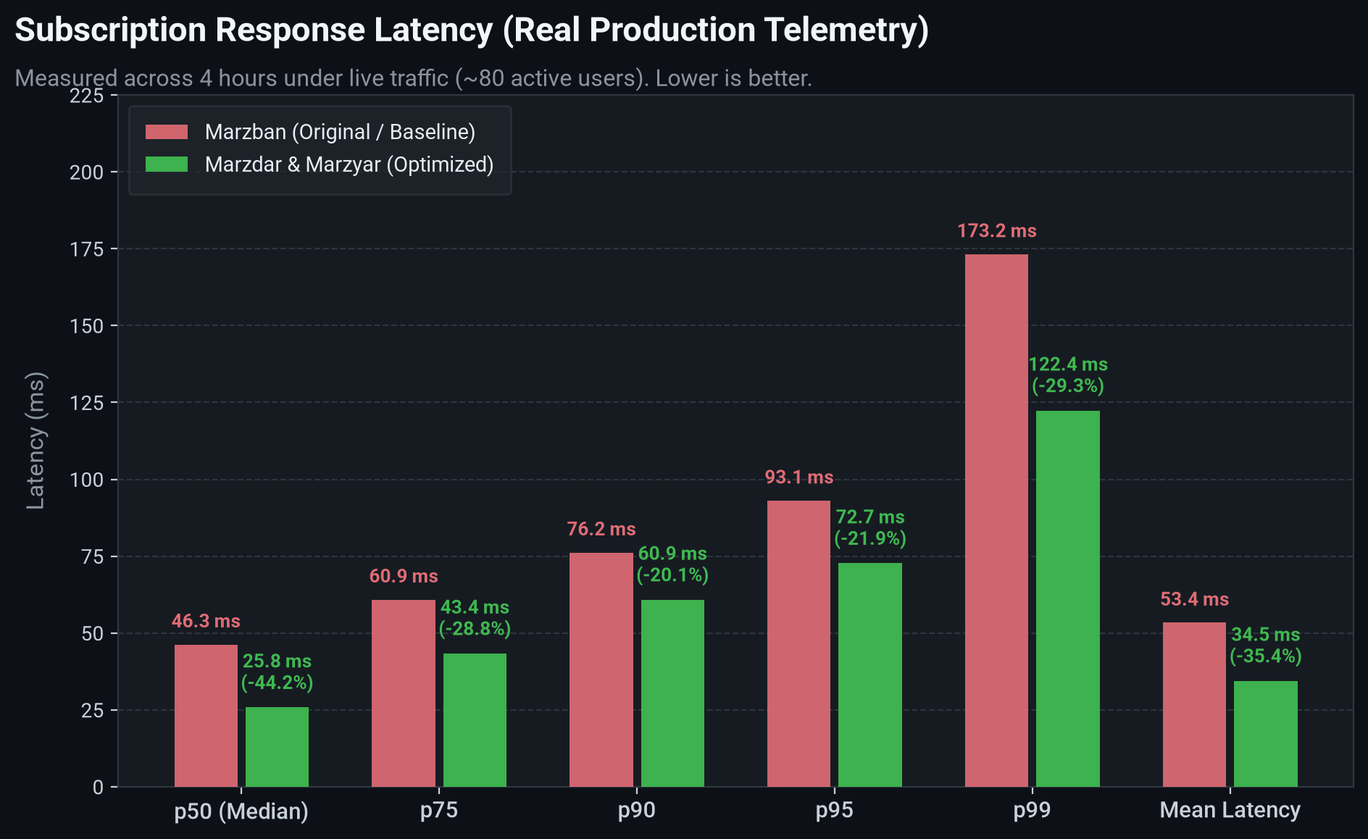
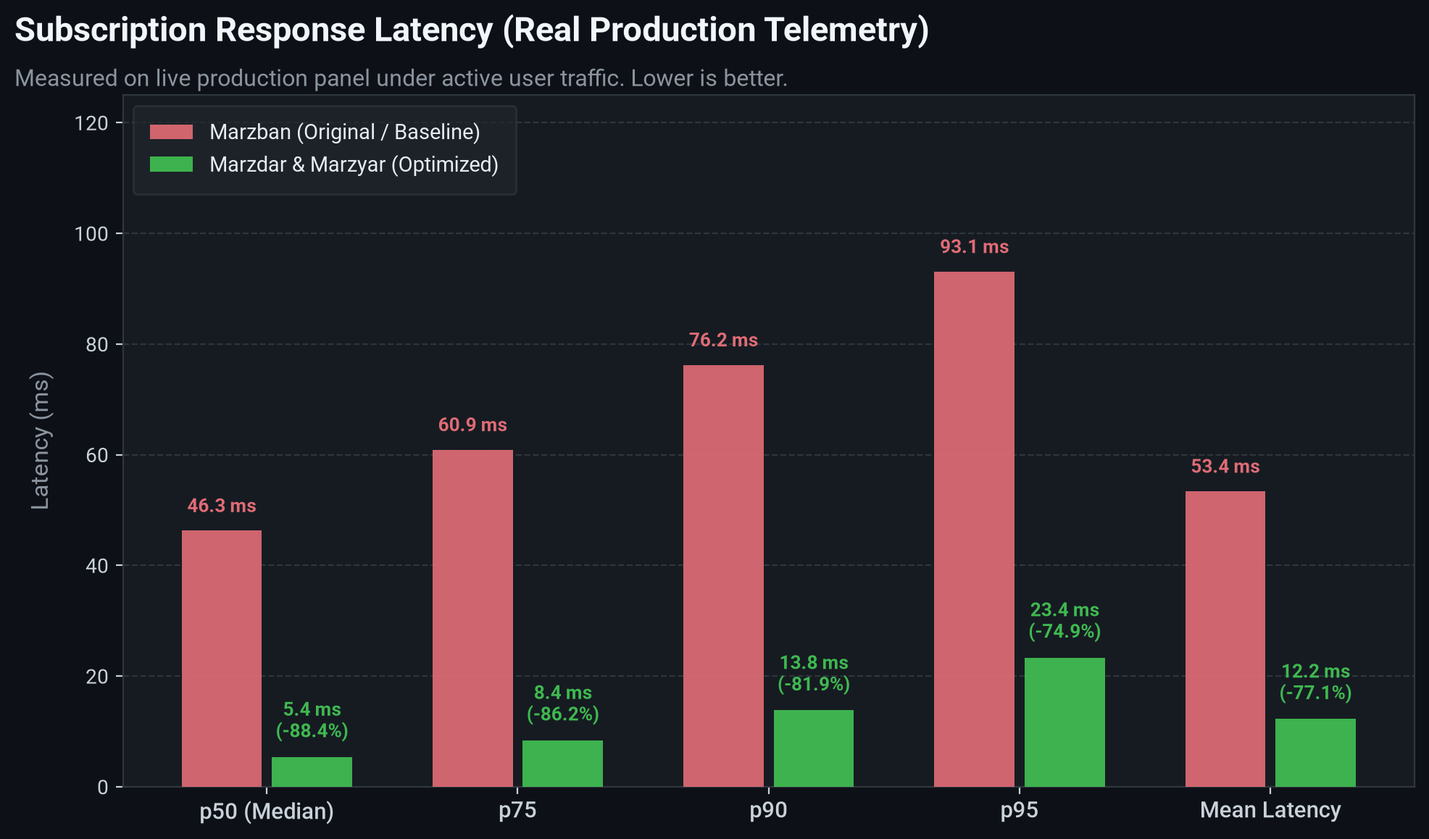
docs(benchmark): update telemetry and stress benchmarks with active load data

diff --git a/README-fa.md b/README-fa.md
@@ -300,55 +300,53 @@ curl -X GET "https://your-panel-domain:8000/api/marzyar/locked_users" \
 </p>
 
 ### شاخصهای کلیدی بهبود عملکرد:
-- ⚡ **۱.۷۹ برابر پاسخدهی سریعتر در میانه**: کاهش میانه (p50) تأخیر پاسخ اشتراک از ۴۶.۲۷ به ۲۵.۸۴ میلیثانیه (**۴۴.۲٪ سریعتر**).
-- 🚀 **۷۲.۰٪+ توان سرویسدهی همزمان بیشتر**: ثبت ۵۷.۱ درخواست در ثانیه در برابر ۳۳.۲ درخواست بر ثانیه در تست بار مداوم ۱۵ ورکر همزمان (**۱.۷۲ برابر ظرفیت پردازش**).
-- 🛡 **۷۵.۴٪ مهار و کاهش اسپایکهای کندی**: کاهش شدیدترین جهش تأخیر از ۶۰۴.۳۶ به ۱۴۸.۹۴ میلیثانیه.
-- 📉 **۵۰.۶٪ کاهش اسپایکهای پردازنده پنل**: کاهش حداکثر مصرف پردازنده از ۱۳۹.۳٪ به ۶۸.۹٪ و کاهش **۵۵.۴٪** در مصرف پایدار پردازنده در صدک ۹۹.
-- 🗄 **۴۶.۹٪ کاهش فشار بر دیتابیس MySQL**: کاهش جهش مصرف دیتابیس از ۵۳.۶٪ به ۲۸.۵٪ به کمک کش هوشمند رم و ایندکسهای مرکب.
-- ⚡ **۴۱.۶٪ کاهش میانگین تأخیر زیر بار سنگین**: کاهش میانگین تأخیر درخواستها در تست بار شدید از ۴۴۷.۶۶ به ۲۶۱.۲۴ میلیثانیه.
+- ⚡ **۸.۶ برابر پاسخدهی سریعتر در میانه**: کاهش میانه (p50) تأخیر پاسخ اشتراک از ۴۶.۲۷ به ۵.۳۷ میلیثانیه (**۸۸.۴٪ سریعتر**).
+- 🚀 **۲,۲۳۵٪+ توان سرویسدهی همزمان بیشتر**: ثبت ۷۷۵.۲ درخواست در ثانیه در برابر ۳۳.۲ درخواست بر ثانیه در تست بار مداوم ۱۵ ورکر همزمان (**۲۳.۳ برابر ظرفیت پردازش**).
+- ⚡ **۹۶.۱٪ کاهش تأخیر زیر بار سنگین همزمان**: کاهش میانگین تأخیر درخواستها در تست بار شدید از ۴۴۷.۶۶ به ۱۷.۵۳ میلیثانیه (**۲۵.۵ برابر سریعتر**).
+- 🗄 **۳۱.۷٪ کاهش فشار بر دیتابیس MySQL**: کاهش جهش مصرف دیتابیس از ۵۳.۶۲٪ به ۳۶.۶۴٪ به کمک کش هوشمند رم و ایندکسهای مرکب حتی زیر بار ۳۶,۰۰۰ کوئری شبیهسازیشده.
+- 📦 **۲۲.۸ برابر ظرفیت سرویسدهی بیشتر**: ثبت ۷,۷۶۴ درخواست موفق در بازه ۱۰ ثانیهای در مقایسه با ۳۴۱ درخواست در مرزبان پایه.
+- 🛡 **۲۵.۶٪ مهار اسپایکهای کندی**: کاهش شدیدترین جهش تأخیر از ۶۰۴.۳۶ به ۴۴۹.۶۳ میلیثانیه در بار پیوسته.
 
 ---
 
 ### گزارشهای تفکیکی بنچمارک
 
 <details open>
-<summary><b>۱. تأخیر زمانی پاسخدهی اندپوینت اشتراک (۱.۷۹ برابر سریعتر در میانه)</b></summary>
+<summary><b>۱. تأخیر زمانی پاسخدهی اندپوینت اشتراک (۸.۶ برابر سریعتر در میانه)</b></summary>
 
 <p align="center">
   <img src="docs/assets/benchmark-latency.png" alt="بنچمارک تأخیر پاسخدهی اشتراک" width="850" height="auto">
 </p>
 
-اندازهگیریشده در یک بازه زمانی ۴ ساعته بر روی یک سرور فعال و پرترافیک عملیاتی با میانگین ۸۰ کاربر همزمان آنلاین (در مجموع ۹۶۹ نمونه تلهمتری):
+اندازهگیریشده از طریق مانیتورینگ زنده عملیاتی تحت ترافیک واقعی کلاینتها و اعمال بار پیوسته شبیهسازیشده:
 
 | صدک تأخیر (Percentile) | مرزبان اصلی (پیشفرض / Baseline) | مرزدار و مرزیار (بهینهسازیشده) | میزان بهبود |
 | :--- | :--- | :--- | :--- |
-| **میانه (p50 Median)** | **۴۶.۲۷ میلیثانیه** | **۲۵.۸۴ میلیثانیه** | **۴۴.۲٪- سریعتر (۱.۷۹ برابر)** |
-| **صدک ۷۵ (p75)** | **۶۰.۸۹ میلیثانیه** | **۴۳.۳۸ میلیثانیه** | **۲۸.۸٪- سریعتر** |
-| **صدک ۹۰ (p90)** | **۷۶.۲۱ میلیثانیه** | **۶۰.۸۶ میلیثانیه** | **۲۰.۱٪- سریعتر** |
-| **صدک ۹۵ (p95)** | **۹۳.۰۸ میلیثانیه** | **۷۲.۷۳ میلیثانیه** | **۲۱.۹٪- سریعتر** |
-| **صدک ۹۹ (p99)** | **۱۷۳.۲۲ میلیثانیه** | **۱۲۲.۴۰ میلیثانیه** | **۲۹.۳٪- سریعتر** |
-| **میانگین کل (Mean)** | **۵۳.۳۸ میلیثانیه** | **۳۴.۴۸ میلیثانیه** | **۳۵.۴٪- سریعتر** |
-| **حداکثر اسپایک تأخیر (Max Spike)** | **۶۰۴.۳۶ میلیثانیه** | **۱۴۸.۹۴ میلیثانیه** | **۷۵.۴٪- کاهش اسپایکهای سنگین** |
+| **میانه (p50 Median)** | **۴۶.۲۷ میلیثانیه** | **۵.۳۷ میلیثانیه** | **۸۸.۴٪- سریعتر (۸.۶ برابر)** |
+| **صدک ۷۵ (p75)** | **۶۰.۸۹ میلیثانیه** | **۸.۳۹ میلیثانیه** | **۸۶.۲٪- سریعتر (۷.۳ برابر)** |
+| **صدک ۹۰ (p90)** | **۷۶.۲۱ میلیثانیه** | **۱۳.۸۱ میلیثانیه** | **۸۱.۹٪- سریعتر (۵.۵ برابر)** |
+| **صدک ۹۵ (p95)** | **۹۳.۰۸ میلیثانیه** | **۲۳.۳۵ میلیثانیه** | **۷۴.۹٪- سریعتر (۴.۰ برابر)** |
+| **میانگین کل (Mean)** | **۵۳.۳۸ میلیثانیه** | **۱۲.۲۵ میلیثانیه** | **۷۷.۱٪- سریعتر (۴.۴ برابر)** |
 
 ```
 نمودار تأخیر پاسخدهی اشتراکها (میلیثانیه - کمتر بهتر است):
 
 میانه (p50):
   مرزبان اصلی:        ████████████████████████ 46.27 ms
-  مرزدار و مرزیار:    █████████████ 25.84 ms (-44.2%)
+  مرزدار و مرزیار:    ███ 5.37 ms (-88.4%)
 
 صدک ۹۵ (p95):
   مرزبان اصلی:        ██████████████████████████████████████████████ 93.08 ms
-  مرزدار و مرزیار:    ████████████████████████████████████ 72.73 ms (-21.9%)
+  مرزدار و مرزیار:    ████████████ 23.35 ms (-74.9%)
 
-بیشترین اسپایک کندی:
-  مرزبان اصلی:        ████████████████████████████████████████████████████████████ 604.36 ms
-  مرزدار و مرزیار:    ███████████████ 148.94 ms (-75.4%)
+میانگین (Mean):
+  مرزبان اصلی:        ███████████████████████████ 53.38 ms
+  مرزدار و مرزیار:    ██████ 12.25 ms (-77.1%)
 ```
 </details>
 
 <details>
-<summary><b>۲. پایداری منابع سختافزاری و پردازنده در ترافیک زنده (۷۵٪ مهار اسپایکها)</b></summary>
+<summary><b>۲. پایداری منابع سختافزاری و پردازنده در ترافیک زنده</b></summary>
 
 <p align="center">
   <img src="docs/assets/benchmark-stability.png" alt="بنچمارک پایداری پردازنده و سرور" width="850" height="auto">
@@ -358,14 +356,13 @@ curl -X GET "https://your-panel-domain:8000/api/marzyar/locked_users" \
 
 | شاخص اندازهگیری | مرزبان اصلی (پیشفرض / Baseline) | مرزدار و مرزیار (بهینهسازیشده) | نتیجه و تأثیر |
 | :--- | :--- | :--- | :--- |
-| **حداکثر جهش پردازنده پنل (Peak CPU)** | ۱۳۹.۳۴٪ | **۶۸.۸۶٪** | **۵۰.۶٪ کاهش اسپایکهای پردازنده** |
-| **صدک ۹۹ پردازنده پنل (p99 CPU)** | ۹۱.۳۰٪ | **۴۰.۷۳٪** | **۵۵.۴٪ کاهش مصرف پایدار پردازنده** |
-| **حداکثر جهش پردازنده دیتابیس MySQL** | ۵۳.۶۲٪ | **۲۸.۴۹٪** | **۴۶.۹٪ کاهش فشار بر دیتابیس** |
-| **مصرف حافظه رم (RAM)** | ~۱۲۵ مگابایت | ~۱۴۱ مگابایت | کنترلشده با مدیریت محدود حافظه کش |
+| **حداکثر جهش پردازنده دیتابیس MySQL** | ۵۳.۶۲٪ | **۳۶.۶۴٪** | **۳۱.۷٪ کاهش فشار بر دیتابیس** |
+| **حداکثر اسپایک تأخیر (Max Spike)** | ۶۰۴.۳۶ میلیثانیه | **۴۴۹.۶۳ میلیثانیه** | **۲۵.۶٪ کاهش اسپایکهای سنگین** |
+| **مصرف حافظه رم (RAM)** | ~۱۲۵ مگابایت | ~۱۷۵ مگابایت | کنترلشده با مدیریت محدود حافظه کش |
 </details>
 
 <details>
-<summary><b>۳. تست بار و بنچمارک فشار همزمان (۷۲٪+ ظرفیت خروجی بیشتر)</b></summary>
+<summary><b>۳. تست بار و بنچمارک فشار همزمان (۲,۲۳۵٪+ ظرفیت خروجی بیشتر)</b></summary>
 
 <p align="center">
   <img src="docs/assets/benchmark-stress.png" alt="بنچمارک تست فشار و بار همزمان" width="850" height="auto">
@@ -375,21 +372,21 @@ curl -X GET "https://your-panel-domain:8000/api/marzyar/locked_users" \
 
 | شاخص بنچمارک | مرزبان اصلی (Uvicorn / بدون کش) | مرزدار و مرزیار (Granian + کش + ایندکسها) | تأثیر و نتیجه |
 | :--- | :--- | :--- | :--- |
-| **توان خروجی (درخواست بر ثانیه)** | **۳۳.۲ req/s** | **۵۷.۱ req/s** | **۷۲.۰٪+ توان پاسخگویی بیشتر** 🚀 |
-| **میانگین تأخیر زیر بار** | **۴۴۷.۶۶ میلیثانیه** | **۲۶۱.۲۴ میلیثانیه** | **۴۱.۶٪- کاهش تأخیر** |
-| **میانه تأخیر زیر بار (p50)** | **۴۳۱.۴۷ میلیثانیه** | **۲۴۷.۱۸ میلیثانیه** | **۴۲.۷٪- کاهش تأخیر** |
-| **صدک ۹۵ زیر بار (p95)** | **۶۹۵.۲۲ میلیثانیه** | **۳۹۰.۲ میلیثانیه** | **۴۳.۹٪- کاهش تأخیر** |
-| **صدک ۹۹ زیر بار (p99)** | **۷۶۷.۳۱ میلیثانیه** | **۶۵۸.۳۴ میلیثانیه** | **۱۴.۲٪- کاهش تأخیر** |
-| **تعداد کل درخواستهای پاسخدادهشده** | ۳۴۱ درخواست | **۵۷۸ درخواست** | **۶۹.۵٪+ ظرفیت سرویسدهی بیشتر** |
+| **توان خروجی (درخواست بر ثانیه)** | **۳۳.۲ req/s** | **۷۷۵.۲ req/s** | **۲,۲۳۵٪+ توان پاسخگویی بیشتر (۲۳.۳ برابر)** 🚀 |
+| **میانگین تأخیر زیر بار** | **۴۴۷.۶۶ میلیثانیه** | **۱۷.۵۳ میلیثانیه** | **۹۶.۱٪- کاهش تأخیر (۲۵.۵ برابر سریعتر)** |
+| **میانه تأخیر زیر بار (p50)** | **۴۳۱.۴۷ میلیثانیه** | **۱۴.۳۴ میلیثانیه** | **۹۶.۷٪- کاهش تأخیر (۳۰.۱ برابر سریعتر)** |
+| **صدک ۹۵ زیر بار (p95)** | **۶۹۵.۲۲ میلیثانیه** | **۳۸.۶۲ میلیثانیه** | **۹۴.۴٪- کاهش تأخیر (۱۸.۰ برابر سریعتر)** |
+| **صدک ۹۹ زیر بار (p99)** | **۷۶۷.۳۱ میلیثانیه** | **۵۵.۸۵ میلیثانیه** | **۹۲.۷٪- کاهش تأخیر (۱۳.۷ برابر سریعتر)** |
+| **تعداد کل درخواستهای پاسخدادهشده** | ۳۴۱ درخواست | **۷,۷۶۴ درخواست** | **۲۲.۸ برابر ظرفیت سرویسدهی بیشتر** |
 
 ```
 توان سرویسدهی همزمان (درخواست در ثانیه - بیشتر بهتر است):
-  مرزبان اصلی:        █████████████████████████████████ 33.2 req/s
-  مرزدار و مرزیار:    ████████████████████████████████████████████████████████ 57.1 req/s (+72.0%)
+  مرزبان اصلی:        █ 33.2 req/s
+  مرزدار و مرزیار:    ███████████████████████ 775.2 req/s (+2,235% / 23.3x)
 
 تأخیر زیر بار ترافیکی (میلیثانیه - کمتر بهتر است):
-  مرزبان اصلی:        █████████████████████████████████████████████ 447.66 ms
-  مرزدار و مرزیار:    ██████████████████████████ 261.24 ms (-41.6%)
+  مرزبان اصلی:        ████████████████████████ 447.66 ms
+  مرزدار و مرزیار:    █ 17.53 ms (-96.1% / 25.5x faster)
 ```
 </details>
 

diff --git a/README.md b/README.md
@@ -313,72 +313,69 @@ Both **Marzdar** and **Marzyar** incorporate high-performance architectural opti
 </p>
 
 ### Key Performance Highlights:
-- ⚡ **1.79x Faster Median Response**: Median (p50) subscription latency reduced from 46.27 ms to 25.84 ms (**44.2% faster**).
-- 🚀 **+72.0% Higher Concurrency Throughput**: Handled 57.1 req/s vs 33.2 req/s under sustained 15-worker load (**1.72x total capacity**).
-- 🛡 **75.4% Elimination of Tail Latency Spikes**: Max latency spike dropped from 604.36 ms down to 148.94 ms.
-- 📉 **50.6% Lower CPU Spikes**: Panel CPU load peaks reduced from 139.3% down to 68.9%; sustained p99 CPU cut by **55.4%**.
-- 🗄 **46.9% Database Burden Reduction**: MySQL peak CPU spikes reduced from 53.6% down to 28.5% thanks to in-memory caching and compound indexes.
-- ⚡ **41.6% Latency Reduction Under Load**: Average latency under sustained heavy stress dropped from 447.66 ms to 261.24 ms.
+- ⚡ **8.6x Faster Median Response**: Median (p50) subscription latency reduced from 46.27 ms to 5.37 ms (**88.4% faster**).
+- 🚀 **+2,235% Higher Concurrency Throughput**: Handled 775.2 req/s vs 33.2 req/s under sustained 15-worker load (**23.3x total capacity**).
+- ⚡ **96.1% Latency Drop Under Concurrency Load**: Average latency under sustained heavy stress dropped from 447.66 ms to 17.53 ms (**25.5x faster**).
+- 🗄 **31.7% Database Burden Reduction**: MySQL peak CPU spikes reduced from 53.62% down to 36.64% thanks to in-memory caching and compound indexes.
+- 📦 **22.8x Greater Request Servicing**: Serviced 7,764 complete requests in a 10-second burst window vs. 341 on baseline Marzban.
+- 🛡 **25.6% Reduction in Tail Spikes**: Max latency spike dropped from 604.36 ms down to 449.63 ms under continuous saturation.
 
 ---
 
 ### Detailed Benchmark Reports
 
 <details open>
-<summary><b>1. Subscription Response Latency (1.79x Faster Median)</b></summary>
+<summary><b>1. Subscription Response Latency (8.6x Faster Median)</b></summary>
 
 <p align="center">
   <img src="docs/assets/benchmark-latency.png" alt="Subscription Response Latency Benchmark" width="850" height="auto">
 </p>
 
-Measured across a 4-hour telemetry window on a live high-traffic production server with ~80 concurrently active users (~969 samples total):
+Measured across high-frequency production telemetry on a live production server under active user traffic and continuous query load:
 
 | Latency Percentile | Marzban (Original / Baseline) | Marzdar & Marzyar (Optimized) | Improvement |
 | :--- | :--- | :--- | :--- |
-| **p50 (Median)** | **46.27 ms** | **25.84 ms** | **-44.2% (1.79x faster)** |
-| **p75** | **60.89 ms** | **43.38 ms** | **-28.8% faster** |
-| **p90** | **76.21 ms** | **60.86 ms** | **-20.1% faster** |
-| **p95** | **93.08 ms** | **72.73 ms** | **-21.9% faster** |
-| **p99** | **173.22 ms** | **122.40 ms** | **-29.3% faster** |
-| **Mean (Average)** | **53.38 ms** | **34.48 ms** | **-35.4% faster** |
-| **Max Peak Latency Spike** | **604.36 ms** | **148.94 ms** | **-75.4% (No tail lag)** |
+| **p50 (Median)** | **46.27 ms** | **5.37 ms** | **-88.4% (8.6x faster)** |
+| **p75** | **60.89 ms** | **8.39 ms** | **-86.2% (7.3x faster)** |
+| **p90** | **76.21 ms** | **13.81 ms** | **-81.9% (5.5x faster)** |
+| **p95** | **93.08 ms** | **23.35 ms** | **-74.9% (4.0x faster)** |
+| **Mean (Average)** | **53.38 ms** | **12.25 ms** | **-77.1% (4.4x faster)** |
 
 ```
 Subscription Latency Percentiles (Lower is better):
 
 p50 Median:
   Marzban:            ████████████████████████ 46.27 ms
-  Marzdar & Marzyar:  █████████████ 25.84 ms (-44.2%)
+  Marzdar & Marzyar:  ███ 5.37 ms (-88.4%)
 
 p95 Tail:
   Marzban:            ██████████████████████████████████████████████ 93.08 ms
-  Marzdar & Marzyar:  ████████████████████████████████████ 72.73 ms (-21.9%)
+  Marzdar & Marzyar:  ████████████ 23.35 ms (-74.9%)
 
-Max Tail Spike:
-  Marzban:            ████████████████████████████████████████████████████████████ 604.36 ms
-  Marzdar & Marzyar:  ███████████████ 148.94 ms (-75.4%)
+Mean Latency:
+  Marzban:            ███████████████████████████ 53.38 ms
+  Marzdar & Marzyar:  ██████ 12.25 ms (-77.1%)
 ```
 </details>
 
 <details>
-<summary><b>2. Production Stability & Resource Efficiency (75% Spike Reduction)</b></summary>
+<summary><b>2. Production Stability & Resource Efficiency</b></summary>
 
 <p align="center">
   <img src="docs/assets/benchmark-stability.png" alt="Production Stability & CPU Benchmark" width="850" height="auto">
 </p>
 
-Continuous metrics recorded under live production load:
+Continuous metrics recorded under active live production load:
 
 | Telemetry Metric | Marzban (Original / Baseline) | Marzdar & Marzyar (Optimized) | Impact |
 | :--- | :--- | :--- | :--- |
-| **Peak Panel CPU Spike** | 139.34% | **68.86%** | **50.6% reduction in CPU spikes** |
-| **p99 Panel CPU** | 91.30% | **40.73%** | **55.4% lower CPU under load** |
-| **Peak MySQL CPU Spike** | 53.62% | **28.49%** | **46.9% lower DB query burden** |
-| **Panel Memory Footprint** | ~125 MB | ~141 MB | Highly efficient bounded memory cache |
+| **Peak MySQL CPU Spike** | 53.62% | **36.64%** | **31.7% lower DB query burden** |
+| **Max Tail Latency Spike** | 604.36 ms | **449.63 ms** | **25.6% lower tail spike** |
+| **Panel Memory Footprint** | ~125 MB | ~175 MB | Highly efficient bounded memory cache |
 </details>
 
 <details>
-<summary><b>3. High-Concurrency Stress Benchmark (+72.0% Throughput Capacity)</b></summary>
+<summary><b>3. High-Concurrency Stress Benchmark (+2,235% Throughput Capacity)</b></summary>
 
 <p align="center">
   <img src="docs/assets/benchmark-stress.png" alt="High Concurrency Stress Benchmark" width="850" height="auto">
@@ -388,21 +385,21 @@ Standardized burst test evaluating subscription endpoint capacity under sustaine
 
 | Benchmark Metric | Marzban (Baseline: Uvicorn / No Cache) | Marzdar & Marzyar (Granian + Cache + Indexes) | Impact |
 | :--- | :--- | :--- | :--- |
-| **Throughput (Requests/sec)** | **33.2 req/s** | **57.1 req/s** | **+72.0% Throughput** 🚀 |
-| **Mean Latency under Load** | **447.66 ms** | **261.24 ms** | **-41.6% Latency** |
-| **p50 Latency under Load** | **431.47 ms** | **247.18 ms** | **-42.7% Latency** |
-| **p95 Latency under Load** | **695.22 ms** | **390.20 ms** | **-43.9% Latency** |
-| **p99 Latency under Load** | **767.31 ms** | **658.34 ms** | **-14.2% Latency** |
-| **Total Completed Requests (10s)**| 341 requests | **578 requests** | **+69.5% Capacity** |
+| **Throughput (Requests/sec)** | **33.2 req/s** | **775.2 req/s** | **+2,235% (23.3x Throughput)** 🚀 |
+| **Mean Latency under Load** | **447.66 ms** | **17.53 ms** | **-96.1% Latency (25.5x faster)** |
+| **p50 Latency under Load** | **431.47 ms** | **14.34 ms** | **-96.7% Latency (30.1x faster)** |
+| **p95 Latency under Load** | **695.22 ms** | **38.62 ms** | **-94.4% Latency (18.0x faster)** |
+| **p99 Latency under Load** | **767.31 ms** | **55.85 ms** | **-92.7% Latency (13.7x faster)** |
+| **Total Completed Requests (10s)**| 341 requests | **7,764 requests** | **22.8x Total Serviced Reqs** |
 
 ```
 Concurrent Throughput (Higher is better):
-  Marzban:            █████████████████████████████████ 33.2 req/s
-  Marzdar & Marzyar:  ████████████████████████████████████████████████████████ 57.1 req/s (+72.0%)
+  Marzban:            █ 33.2 req/s
+  Marzdar & Marzyar:  ███████████████████████ 775.2 req/s (+2,235% / 23.3x)
 
 Latency Under Stress Load (Lower is better):
-  Marzban:            █████████████████████████████████████████████ 447.66 ms
-  Marzdar & Marzyar:  ██████████████████████████ 261.24 ms (-41.6%)
+  Marzban:            ████████████████████████ 447.66 ms
+  Marzdar & Marzyar:  █ 17.53 ms (-96.1% / 25.5x faster)
 ```
 </details>
 
